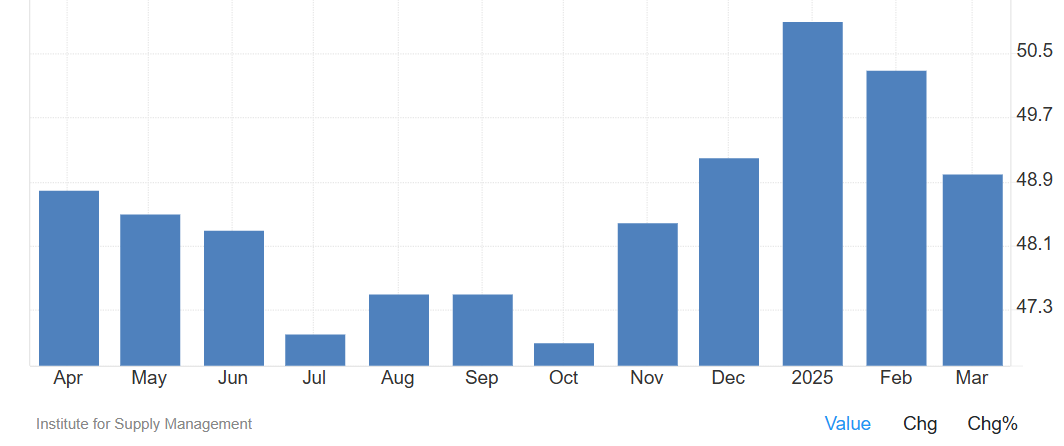
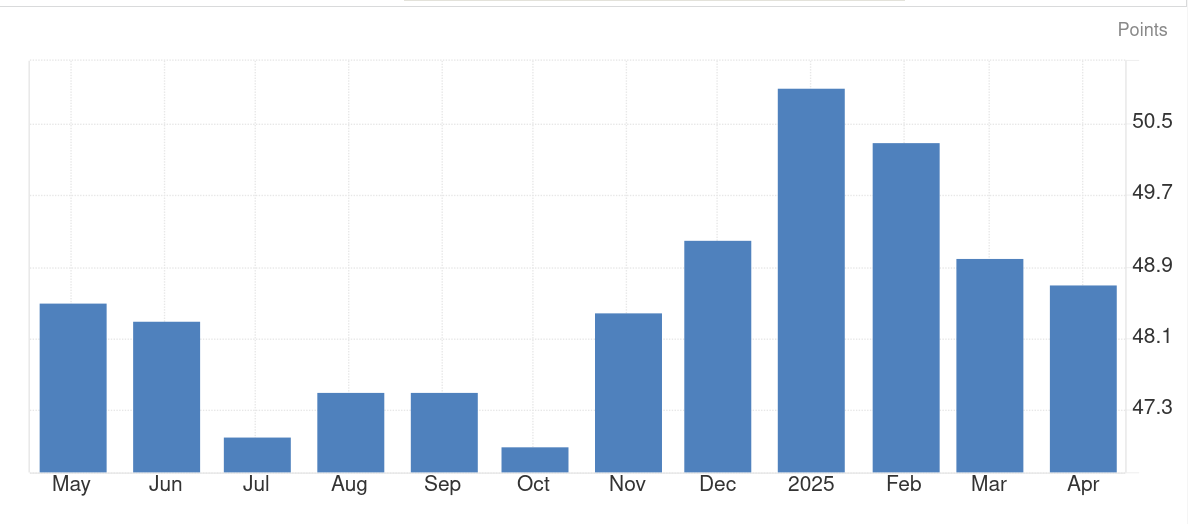
update mfg

Changed region(s): [[0.031, 0.0, 0.9925, 0.9619], [0.9305, 0.0291, 0.9925, 0.1457], [0.9305, 0.204, 0.9925, 0.2915]]

diff --git a/crablox/hauls/h_ism_mfg.py b/crablox/hauls/h_ism_mfg.py
@@ -2,11 +2,11 @@ from fasthtml.common import Card, Div, Img, P
 
 from .components import get_details, get_history, get_footer
 
-title = "ISM Mfg · 49.0"
+title = "ISM Mfg · 48.7"
 short = "Mfg"
 style = "background-color: var(--pico-color-jade-500); border-color: var(--pico-color-jade-300);"
 caption = "ISM Manufacturing PMI"
-summary = "We're seeing a significant shift from February's data. The headline PMI has dropped below the growth threshold to 49.0 (down from 50.3), indicating contraction for the first time in recent months."
+summary = "Manufacturing slipped again in April, falling to 48.7 from 49 in March."
 
 
 def history():
